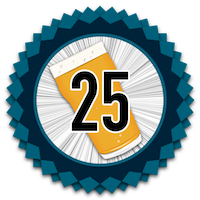
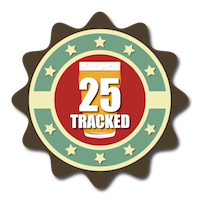
Add Badge Graphics

diff --git a/config/initializers/merit.rb b/config/initializers/merit.rb
@@ -46,45 +46,72 @@ badges = [
   },
   {
     id: 6,
+    name: 'tracker-500',
+    description: "Marked that you have tried 500 drinks.",
+    image: '/includes/badges/tracked-500.png'
+  },
+  {
+    id: 7,
     name: 'citizen',
     description: "That's right I'm a Player 1 Citizen!",
     image: '/includes/badges/citizen.png',
     custom_fields: { title: 'Player 1 Citizen' }
   },
   {
-    id: 7,
+    id: 8,
     name: 'checkin-10',
     description: "Checked in to Player 1 10 times.",
     image: '/includes/badges/checkin-10.png',
     custom_fields: { title: 'Player 1 - 10 Visits' }
   },
   {
-    id: 8,
+    id: 9,
     name: 'checkin-20',
     description: "Checked in to Player 1 20 times.",
     image: '/includes/badges/checkin-20.png',
     custom_fields: { title: 'Player 1 - 20 Visits' }
   },
   {
-    id: 9,
+    id: 10,
     name: 'checkin-50',
     description: "Checked in to Player 1 50 times.",
     image: '/includes/badges/checkin-50.png',
     custom_fields: { title: 'Player 1 - 50 Visits' }
   },
   {
-    id: 10,
+    id: 11,
     name: 'checkin-100',
     description: "Checked in to Player 1 100 times.",
     image: '/includes/badges/checkin-100.png',
     custom_fields: { title: 'Player 1 - 100 Visits' }
   },
   {
-    id: 11,
+    id: 12,
     name: 'checkin-200',
     description: "Checked in to Player 1 200 times.",
     image: '/includes/badges/checkin-200.png',
     custom_fields: { title: 'Player 1 - 200 Visits' }
+  },
+  {
+    id: 13,
+    name: 'checkin-500',
+    description: "Checked in to Player 1 500 times.",
+    image: '/includes/badges/checkin-500.png',
+    custom_fields: { title: 'Player 1 - 500 Visits' }
+  },
+  {
+    id: 14,
+    name: 'five-drink-5',
+    description: "Had 5 awesome drinks at Player 1 in a day.",
+    image: '/includes/badges/five-drink-5.png',
+    custom_fields: { title: 'Five Drinks in a Day' }
+  },
+  {
+    id: 15,
+    name: 'ten-drink-10',
+    description: "Had 10 awesome drinks at Player 1 in a day.",
+    image: '/includes/badges/ten-drink-10.png',
+    custom_fields: { title: 'Ten Drinks in a Day' }
   }
 ]
 

diff --git a/app/models/merit/badge_rules.rb b/app/models/merit/badge_rules.rb
@@ -41,10 +41,22 @@ module Merit
         track.user.trackers.count == 100
       end
             
+      grant_on ['trackers#track', 'trackers#point_track'], :badge => 'tracked-500', :to => :user do |track|
+        track.user.trackers.count == 500
+      end
+            
       grant_on ['trackers#track', 'trackers#point_track'], :badge => 'citizen', :temporary => true, :to => :user do |user|
         user.user.has_membership == true
       end
 
+      grant_on ['trackers#track', 'trackers#point_track'], :badge => 'five-drink-5', :to => :user do |track|
+        track.user.trackers.where(created_at: (Time.zone.now.midnight - 1.day)..(Time.zone.now.midnight + 1.day)).count == 5
+      end
+            
+      grant_on ['trackers#track', 'trackers#point_track'], :badge => 'five-drink-10', :to => :user do |track|
+        track.user.trackers.where(created_at: (Time.zone.now.midnight - 1.day)..(Time.zone.now.midnight + 1.day)).count == 10
+      end
+            
       # If it creates user, grant badge
       # Should be "current_user" after registration for badge to be granted.
       # grant_on 'users#create', :badge => 'just-registered', :to => :itself

diff --git a/app/controllers/rewards_controller.rb b/app/controllers/rewards_controller.rb
@@ -119,15 +119,17 @@ class RewardsController < ApplicationController
           user_visit_count = @user.timelines.where(:nature => "checkin").count
           
           if user_visit_count == 10
-            @user.add_badge(7)
-          elsif user_visit_count == 20
             @user.add_badge(8)
-          elsif user_visit_count == 50
+          elsif user_visit_count == 20
             @user.add_badge(9)
-          elsif user_visit_count == 100
+          elsif user_visit_count == 50
             @user.add_badge(10)
-          elsif user_visit_count == 200
+          elsif user_visit_count == 100
             @user.add_badge(11)
+          elsif user_visit_count == 200
+            @user.add_badge(12)
+          elsif user_visit_count == 500
+            @user.add_badge(13)
           end
           
           redirect_to redeem_reward_path, notice: "Success: Valid Checkin '#{@user.first_name}'. "
